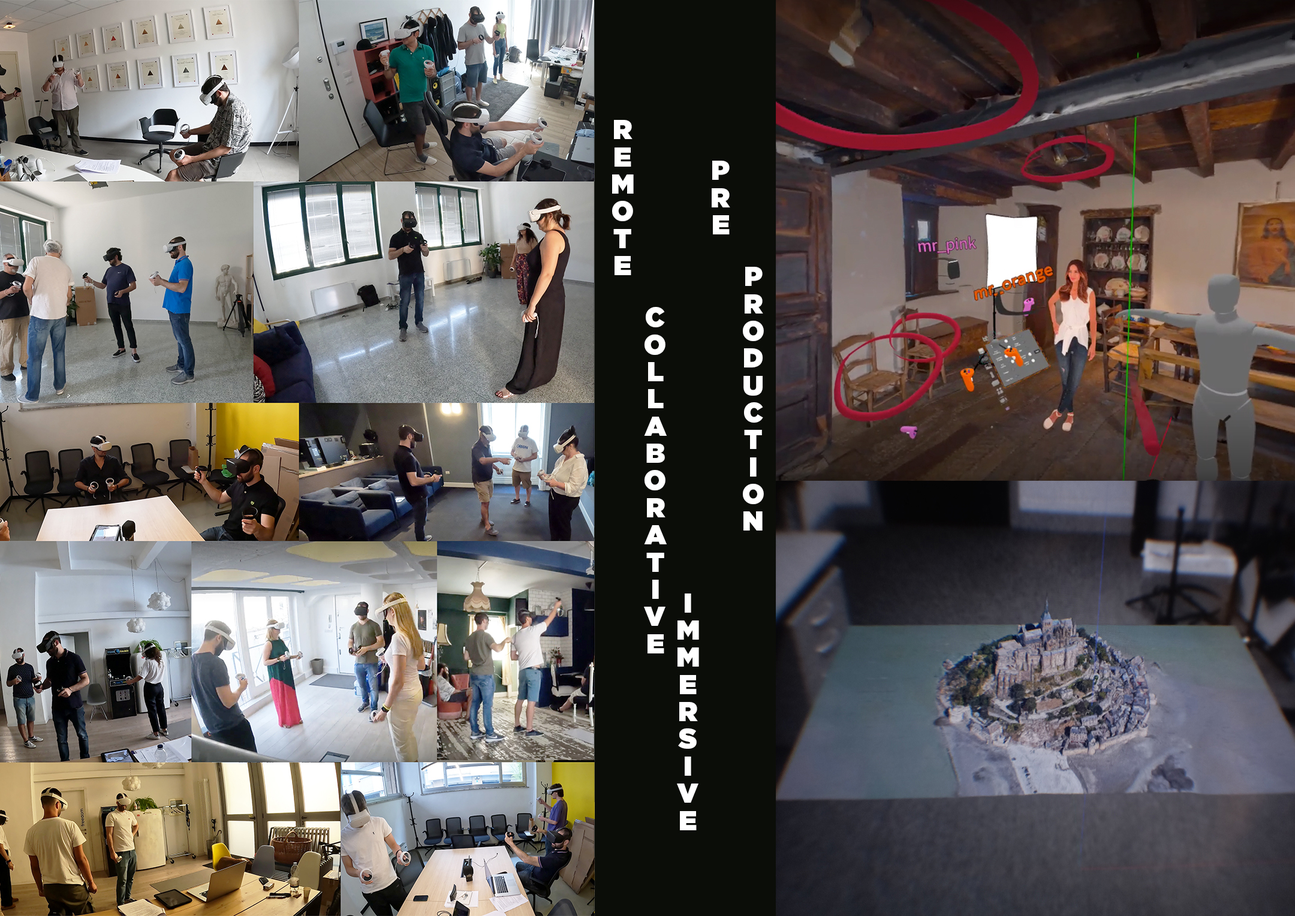
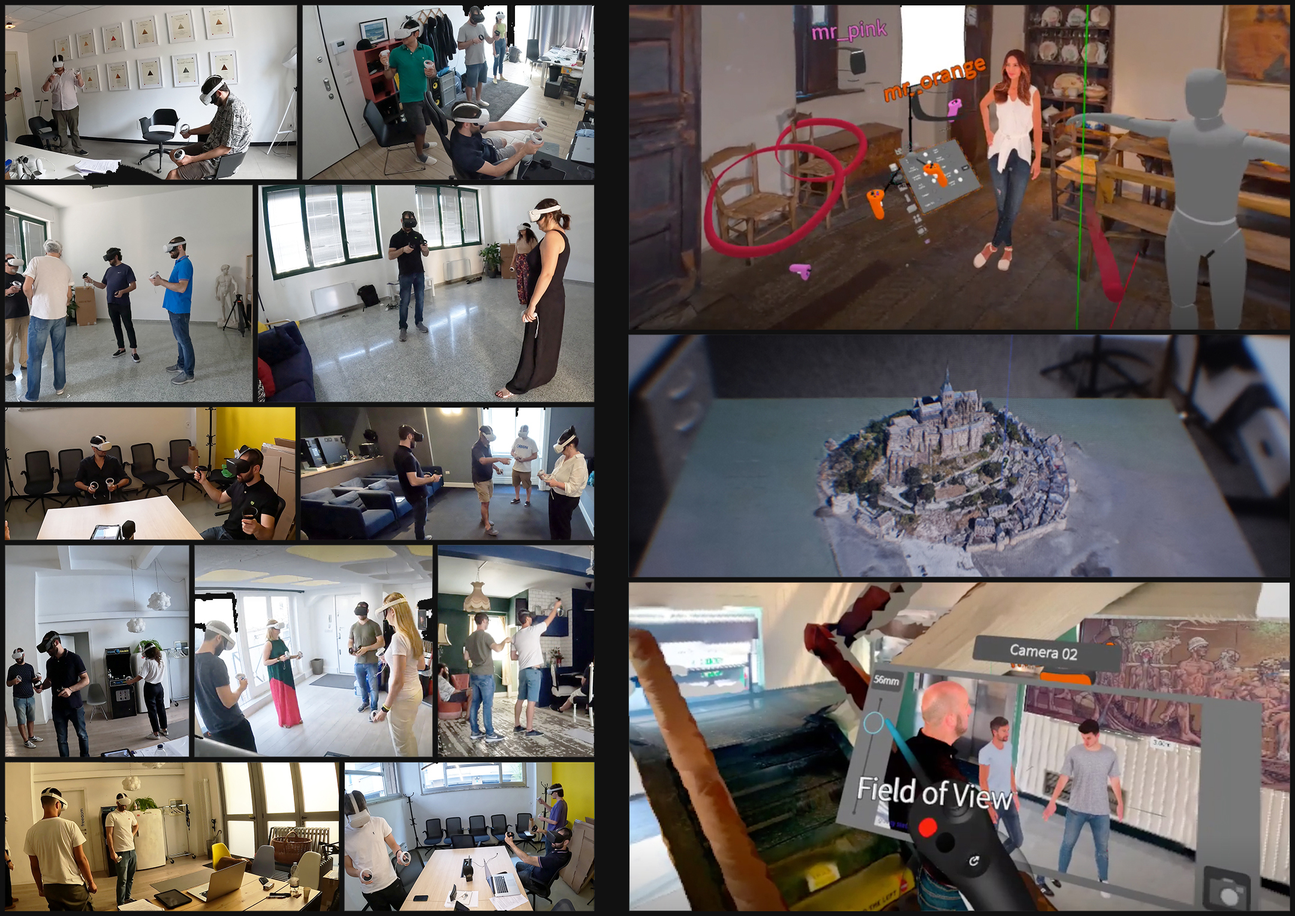
DontTreatMe page

diff --git a/src/pages/projects/immersive-media-and-tech/immersive-media-and-tech.js b/src/pages/projects/immersive-media-and-tech/immersive-media-and-tech.js
@@ -25,6 +25,7 @@ import imageSprLessonBuilderLight from 'assets/spr-lesson-builder-light.jpg';
 import imageCartoon from 'assets/pippo.jpeg';
 
 import UrquiolaIntro from 'assets/Urquiola-intro.jpg';
+import UrquiolaPatricia from 'assets/Not_an_object_Urquiola_1.jpg';
 
 
 
@@ -191,16 +192,15 @@ export const SmartSparrow = () => {
         <ProjectTextRow>
             <ProjectSectionHeading>The problem</ProjectSectionHeading>
             <ProjectSectionText>
-            Lorem ipsum dolor sit amet, consectetur adipiscing elit, sed do eiusmod tempor incididunt ut labore et dolore magna aliqua. Ut enim ad minim veniam, quis nostrud exercitation ullamco laboris nisi ut aliquip ex ea commodo consequat. Duis aute irure dolor in reprehenderit in voluptate velit esse cillum dolore eu fugiat nulla pariatur. Excepteur sint occaecat cupidatat non proident, sunt in culpa qui officia deserunt mollit anim id est laborum.
-            </ProjectSectionText>
+            Encountering Patricia Urquiola was both serendipitous and fortunate. At a time of great excitement in the VR field, she chose to engage in this pioneering exploration of how objects in the VR realm could transcend their traditional roles of form and function. 
+            <br /><br />
+
+            “We have approached this Virtual Reality project with curiosity about another type of reality, in which objects, architectures and landscapes develop freely in a time-space without our material logics. In this dimension, objects have complex emotions and reactions, based on non-biological intelligence. An immersion in a parallel context, in which sensations of pleasure could change towards an ‘Uncanny Valley’, or ‘disturbing zone’.... We are at the beginnings of these explorations”.
             
-          </ProjectTextRow>
-
-
-          <ProjectSectionContent>
-
-
-          <br /><br />
+            
+        <br /><br />
+            From a technical point of view, the great challenge has been that of creating a neural network able to learn from human movements and therefore decide how to react on the basis of the user’s behaviour. This is how the reactions of objects have been made the most natural and variable possible.
+            <br /><br />
 <div style={{ position: 'relative', paddingBottom: '56.25%', height: '0' }}>
       <video
         className={styles.video}
@@ -212,18 +212,44 @@ export const SmartSparrow = () => {
       </video>
     </div>
 <br /><br />
+            </ProjectSectionText>
+            
+          </ProjectTextRow>
 
-</ProjectSectionContent>
+
 
 
           <ProjectTextRow>
             <ProjectSectionHeading>My Role</ProjectSectionHeading>
             <ProjectSectionText>
-            Lorem ipsum dolor sit amet, consectetur adipiscing elit, sed do eiusmod tempor incididunt ut labore et dolore magna aliqua. Ut enim ad minim veniam, quis nostrud exercitation ullamco laboris nisi ut aliquip ex ea commodo consequat. Duis aute irure dolor in reprehenderit in voluptate velit esse cillum dolore eu fugiat nulla pariatur. Excepteur sint occaecat cupidatat non proident, sunt in culpa qui officia deserunt mollit anim id est laborum.
+            Collaborating closely with a genius like Patricia Urquiola was no simple feat. From the initial meeting to the final stages of production, she continuously generated a vast number of ideas, truly a "volcano" of creativity. The challenge lay in filtering and prioritizing these inputs. After that, it was my responsibility to work with our software engineers to assess the feasibility of each feature Patricia requested and ultimately serve as a mediator, returning to Patricia to explain why certain features could not be implemented due to constraints related to timing and resources.
             </ProjectSectionText>
           </ProjectTextRow>
 
-          
+
+          <br /><br />
+
+          <ProjectTextRow>
+
+          <Image
+      src={UrquiolaPatricia}
+      width={640} // Adjusted width
+      height={400} // Adjusted height (fixed the typo)
+      placeholder={UrquiolaPatricia}
+      alt="Patricia Urquiola"
+      sizes="50vw"
+      style={{ display: 'block', maxWidth: '100%', height: 'auto' }} // Ensures image responsiveness
+    />
+          </ProjectTextRow>
+
+          <br /><br />
+
+          <ProjectTextRow>
+            <ProjectSectionHeading>Reception</ProjectSectionHeading>
+            <ProjectSectionText>
+            During Milano Design Week, the multitude of events makes capturing attention and directing visitors to your exhibit a significant challenge. However, thanks to the immense effort from all project partners, our experience was fully booked from early morning until midnight each day. We received an overwhelmingly positive response from the general public, as well as from prominent artists, designers, creatives, and musicians who experienced "Don't Treat Me Like an Object."
+            </ProjectSectionText>
+          </ProjectTextRow>
 
 
 {/* Project 2 --- Header + image + description */}

diff --git a/src/pages/projects/research/research.js b/src/pages/projects/research/research.js
@@ -50,6 +50,9 @@ import imageBookCover from 'assets/CoverandArt.jpg';
 import imageBookLaunch01 from 'assets/BookLaunch_01_light.jpg';
 import imageBookLaunch02 from 'assets/BookLaunch_02_light.jpg';
 import imageCoverPhD from 'assets/CoverPhD.jpg';
+import CoverPhDWhite from 'assets/CoverPhD_White.jpg';
+import CoverPhDDark from 'assets/CoverPhD_Dark.jpg';
+
 
 import imageLongTail from 'assets/LongTail.jpg';
 import imageLongTailDark from 'assets/LongTail_dark.jpg';
@@ -175,16 +178,16 @@ export const SmartSparrow = () => {
               key={themeId}
               srcSet={
                 isDark
-                  ? [imageCoverPhD, imageCoverPhD]
-                  : [imageCoverPhD, imageCoverPhD]
+                  ? [CoverPhDDark, CoverPhDWhite]
+                  : [CoverPhDWhite, CoverPhDWhite]
               }
               placeholder={
                 isDark
-                  ? imageCoverPhD
-                  : imageCoverPhD
+                  ? CoverPhDDark
+                  : CoverPhDDark
               }
               sizes={`(max-width: ${media.mobile}px) 100vw, (max-width: ${media.tablet}px) 800px, 1000px`}
-              alt="A screenshot of the current ui of the app"
+              alt="A collage of the usability testing phase and some screenshots of the previz immersive tool"
             />
           </ProjectSectionContent>
 
@@ -219,7 +222,7 @@ export const SmartSparrow = () => {
                   ? imageLongTailDark
                   : imageLongTail
               }
-              alt={`A set of themed components for the aero design system`}
+              alt={`Long Tail diagram revisited by me`}
               sizes="100vw"
             />
  <br /><br />
@@ -274,7 +277,7 @@ A PhD, in most cases, is an individual experience and if you need a hand you wil
                   ? imageBookCover
                   : imageBookCover
               }
-              alt={`A set of themed components for the aero design system`}
+              alt={`Cover of th hard book and illustration representing the discovery journey`}
               sizes="100vw"
             />
     
@@ -299,7 +302,7 @@ Just as I am fascinated by the semiotics of cinematic language, I wondered if th
       width={640} // Adjusted width
       height={400} // Adjusted height (fixed the typo)
       placeholder={imageBookLaunch02}
-      alt="A set of themed components for the aero design system"
+      alt="Press Conference at BASE"
       sizes="50vw"
       style={{ display: 'block', maxWidth: '100%', height: 'auto' }} // Ensures image responsiveness
     />
@@ -312,7 +315,7 @@ This work was notably recognized by the World VR Forum, which helped turn it int
       width={640} // Adjusted width
       height={400} // Adjusted height (fixed the typo)
       placeholder={imageBookLaunch01}
-      alt="A set of themed components for the aero design system"
+      alt="Press Conference at BASE"
       sizes="50vw"
       style={{ display: 'block', maxWidth: '100%', height: 'auto' }} // Ensures image responsiveness
     />
